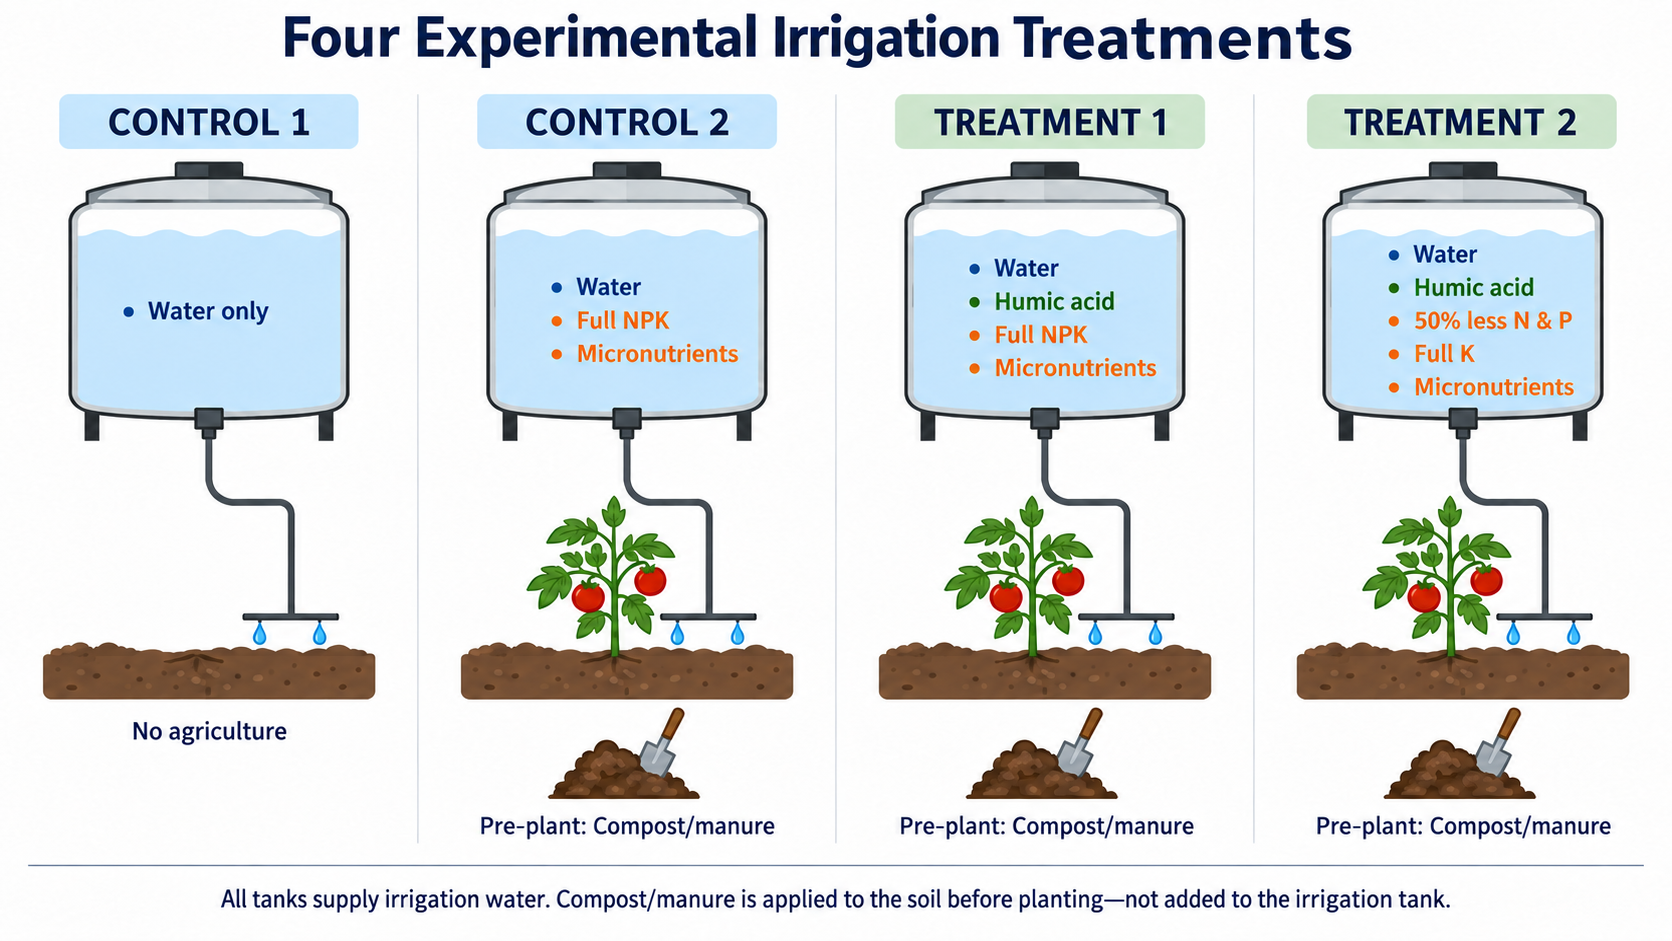
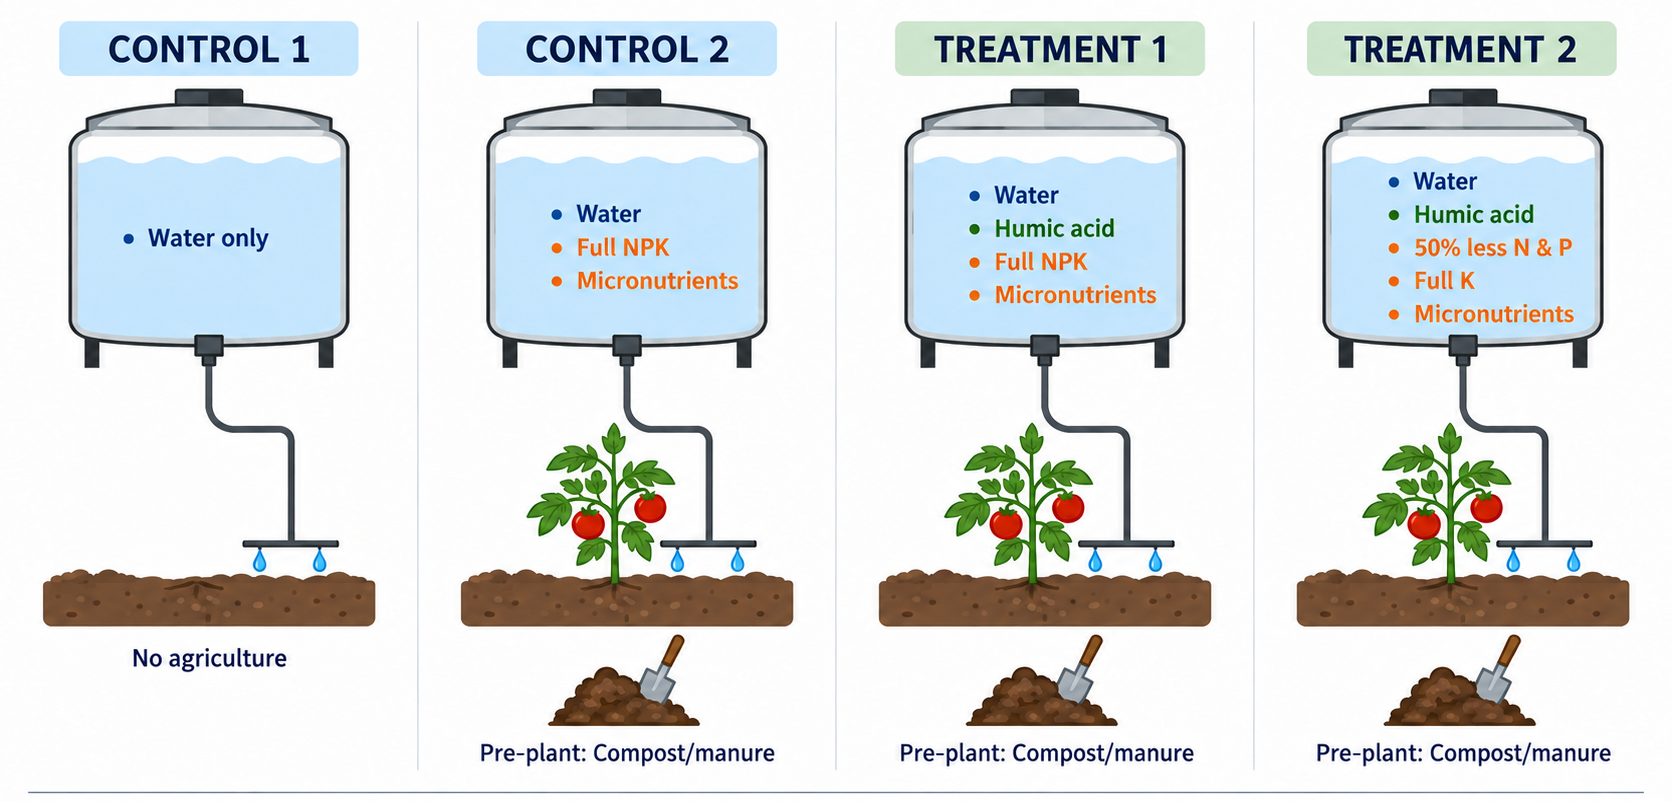
Update HART Jupyter Book

diff --git a/intro.md b/intro.md
@@ -1,18 +1,18 @@
-# HART-WQ Project
-The humic acid for red tide and water quality (HART-WQ) project is a three-year collaborative research and demonstration initiative funded by the U.S. Environmental Protection Agency (EPA) and conducted by Florida Gulf Coast University (FGCU), the University of Florida/IFAS (UF/IFAS), and Florida State University (FSU). The project evaluates humic acid (HA) as a soil amendment for Southwest Florida agriculture, with the goal of improving nutrient and water retention in sandy soils while reducing nitrogen and phosphorus losses to groundwater and surface water.
+# Humic Acid for Nutrient Reduction and Red Tide Mitigation in Florida 
 
-The research follows a farm-to-watershed-to-coast approach. Lysimeter and field experiments at UF/IFAS SWFREC in Immokalee evaluate nutrient leaching, soil-water conditions, crop response, UAV-based crop health, and farm economics. Results are then scaled to the Peace River watershed and Charlotte Harbor to assess potential reductions in nutrient loads and their implications for *Karenia brevis* red-tide risk. The project also integrates watershed modeling, machine learning, and AI-supported decision tools to translate research findings into practical information for farmers and water-resource managers.
+The Humic Acid for Water Quality Project is a three-year research project funded by the [U.S. Environmental Protection Agency (EPA) – Innovative Solutions Projects](https://www.epa.gov/gulfofamerica/overview-innovative-solutions-projects-funded-fy26), and conducted by [Florida Gulf Coast University (FGCU)](https://www.fgcu.edu/eng/bioengineering-civilengineering-environmentalengineering),  [University of Florida (UF)](https://swfrec.ifas.ufl.edu/), and [Florida State University (FSU)](https://www.eoas.fsu.edu/).
+
+Humic acid is a natural soil conditioner that can improve nutrient and water retention, particularly in sandy soils with low nutrient-holding capacity. By retaining nutrients within the root zone, humic acid has the potential to reduce nitrogen and phosphorus leaching to groundwater and surface water. 
+
+This project evaluates humic acid as an innovative approach to reduce agricultural nutrient loads from Southwest Florida watersheds to coastal waters while improving farm profitability. The project integrates multiscale research spanning controlled lysimeter experiments, field trials on tomato farms, watershed-scale modeling of nitrogen and phosphorus loads, and machine learning to assess changes in red tide risk.
+
+A central goal is to determine whether humic acid can enable a 50% reduction in nitrogen and phosphorus fertilizer application while maintaining or improving crop yield and quality, reducing nutrient leaching, and lowering downstream nutrient loads and predicted red tide risk. The project also integrates AI-powered decision-support tools to translate project data into practical information for farmers, watershed managers, and other stakeholders.    
 
 
 ![framework](_static/img/project_framework.png)
-
-
+Humic acid for reducing nutrient loads and risk of harmful algal blooms. 
 
 
 ![Logos](_static/img/Logos.png)
 
-```{image} _static/img/qrcode.png
-:alt: HART project website QR code
-:width: 160px
-:align: center
 

diff --git a/study_area.md b/study_area.md
@@ -1,6 +1,6 @@
 # Study Areas
 
-The project has two principal spatial components: the experimental site at UF/IFAS Southwest Florida Research and Education Center (SWFREC) in Immokalee for the lysimeter and field studies, and the Peace River watershed for watershed-scale nutrient-load modeling and downstream red-tide scenario analysis.
+The project has two principal spatial components: the experimental site at [UF/IFAS Southwest Florida Research and Education Center (SWFREC) in Immokalee](https://swfrec.ifas.ufl.edu/) for the lysimeter and field studies, and the Peace River watershed for watershed-scale nutrient-load modeling and downstream red-tide scenario analysis.
 
 ## Interactive Study Map
 
